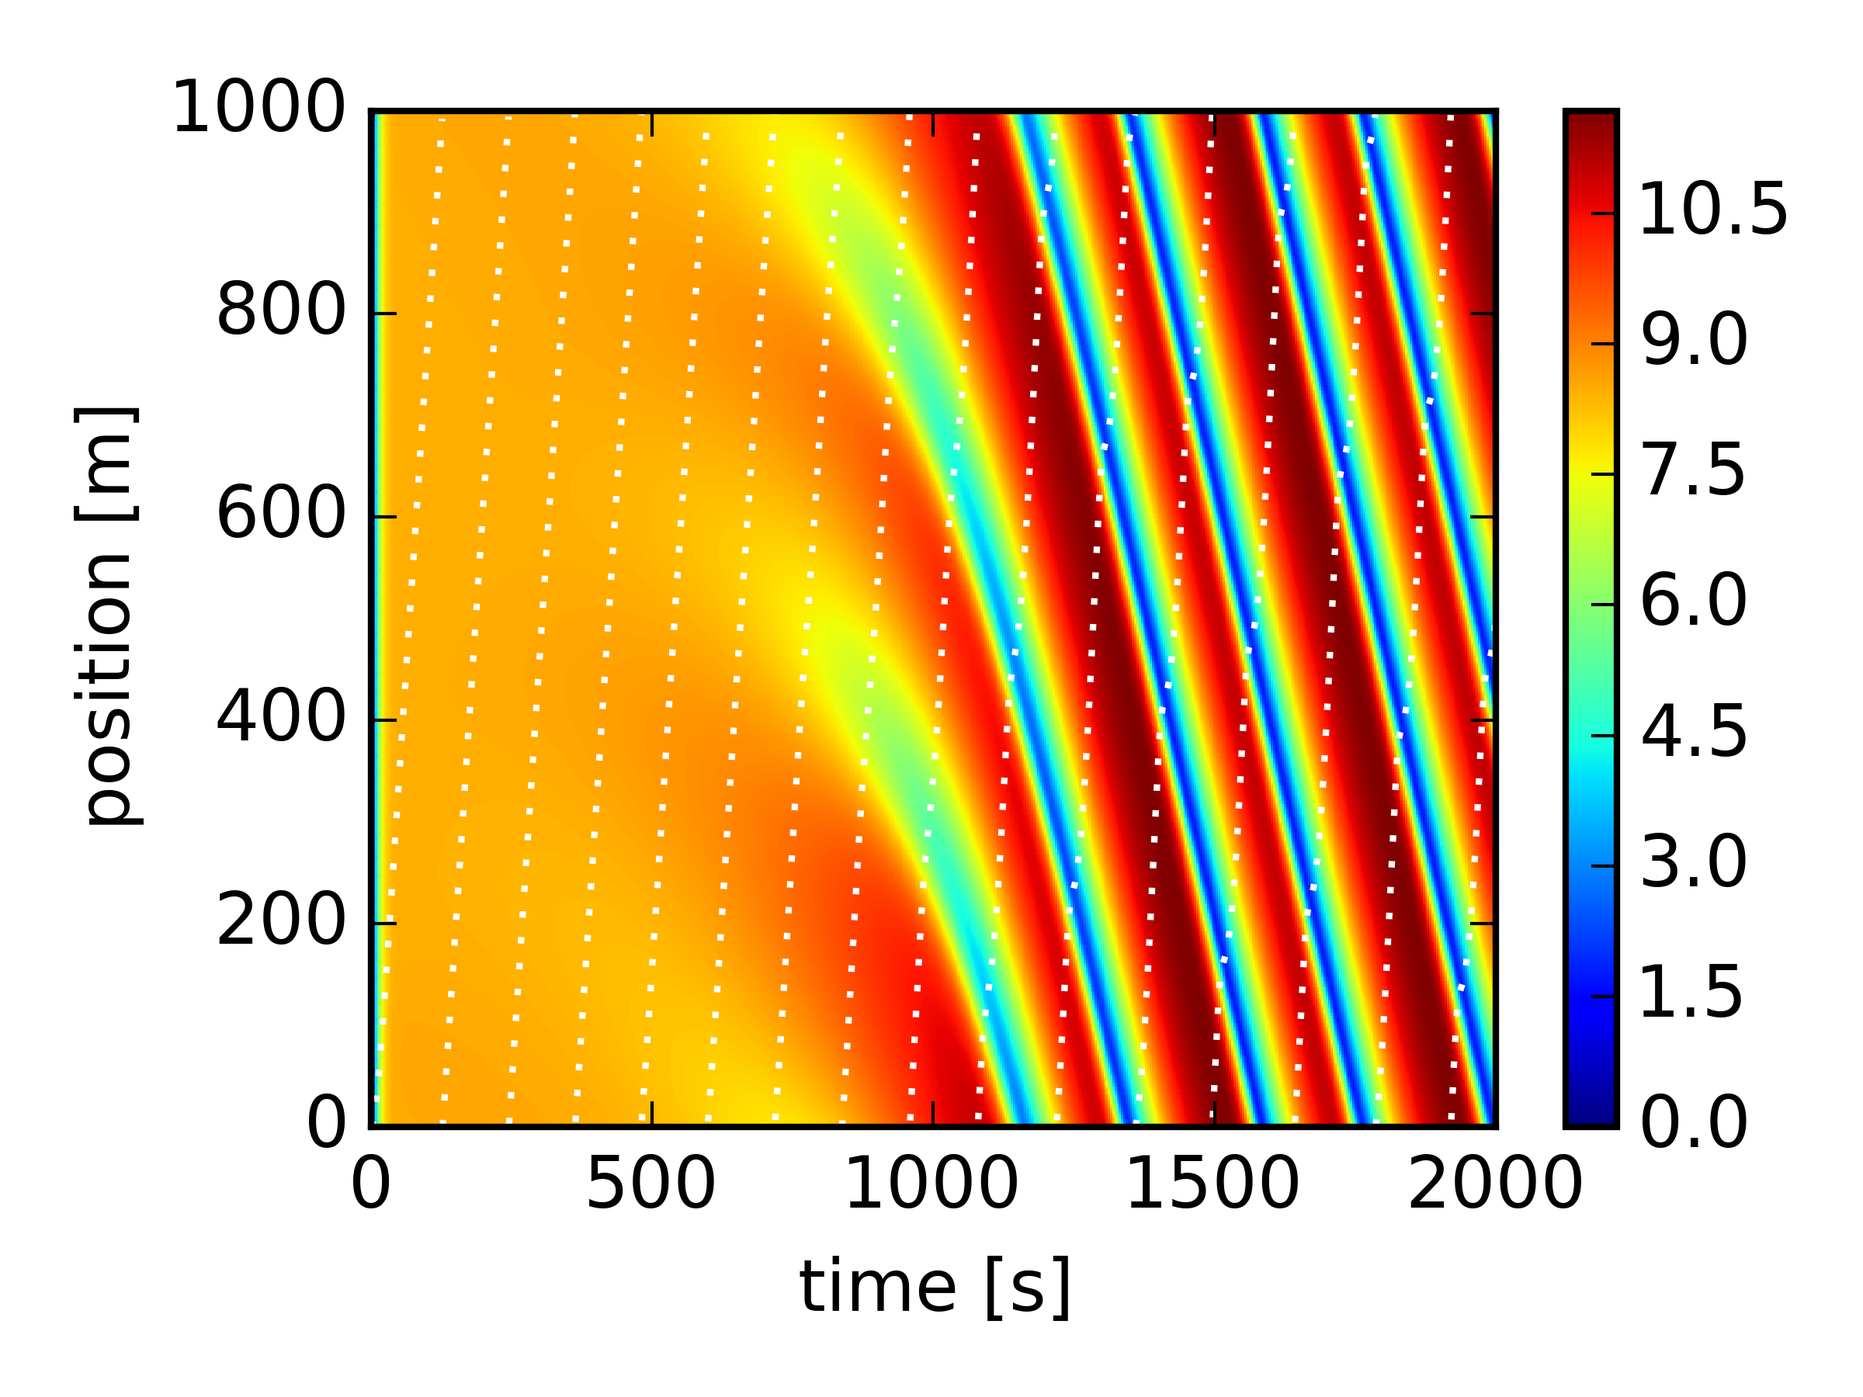
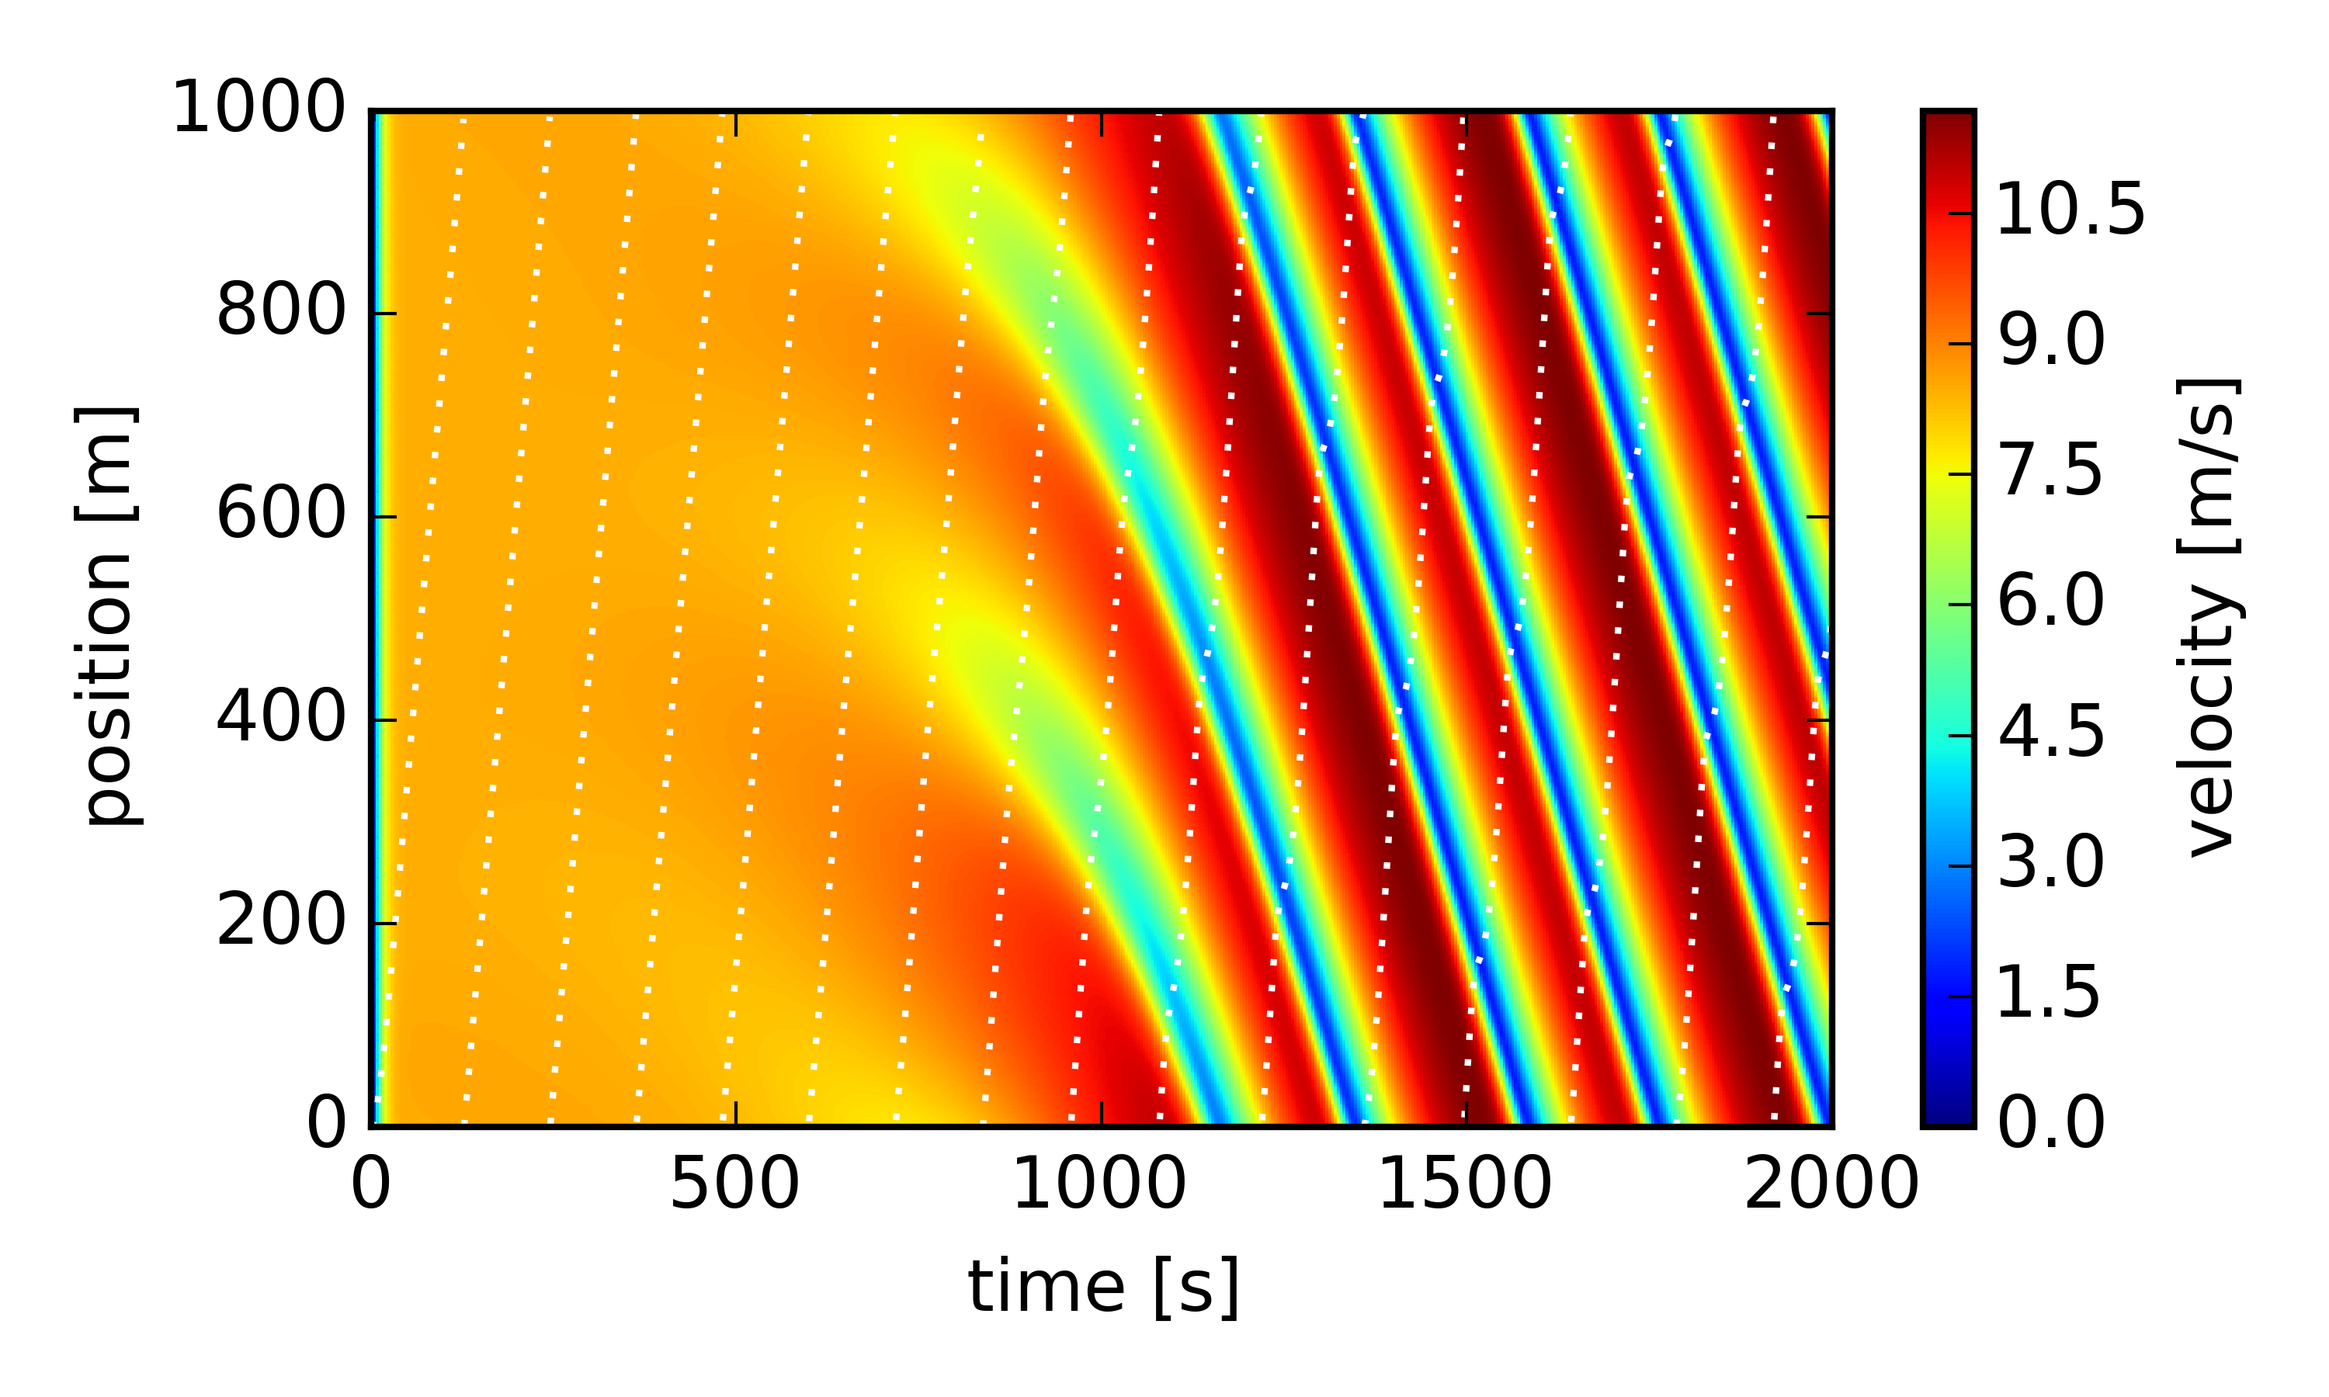
Worked on section 'results' in report

diff --git a/doc/latex/model.tex b/doc/latex/model.tex
@@ -15,7 +15,8 @@ This equation contains two parts, the \emph{free road term}, and the \emph{inter
 \end{equation}
 For any $\delta>0$ this will result a relaxation of the velocity $v_\alpha$ to the speed limit $v_0$. The value of the exponent $\delta$ is typically chosen in between 1 (exponential relaxation) and 6 (the limit $\delta\rightarrow \infty$ corresponds to a constant acceleration). Here $a$ denotes the maximum acceleration. Throughout literature the most commonly used value for the exponent is $\delta=4$. This is the value that has also been adopted in this work.
 
-The \emph{interaction term} is designed to limit the cars' velocity on a densely populated road. It acts as a `repulsive potential', which tries to enforce the \emph{desired gap} $s^*$ as the distance between two cars. The desired gap is calculated as
+\subsection{The interaction term}
+The \emph{interaction term} merits further attention. It is designed to limit the cars' velocity on a densely populated road. It acts as a `repulsive potential', which tries to enforce the \emph{desired gap} $s^*$ as the distance between two cars. The desired gap is calculated as
 \begin{equation}
 s^*(v_\alpha, \Delta v_\alpha) = s_0 + \max\left(v_\alpha T + \frac{v_\alpha \Delta v_\alpha}{2\sqrt{ab}},\;0\right).
 \label{eq:desired_gap}
@@ -26,25 +27,22 @@ It contains
     \item a safety distance $v_\alpha T$ based on the drivers' desired time headway\footnote{The time headway $T$ is the time between the moment the first vehicle's bumper passes a stationary point, and the moment the next vehicle passes it.} $T$,
     \item a breaking term $\frac{v_\alpha \Delta v_\alpha}{2\sqrt{ab}}$, with the `comfortable' deceleration $b$.
 \end{itemize}
-The breaking term inhibits large closing speeds between vehicles. It has been designed in such a way that for $\gamma = 2$, the deceleration does not exceed $b$ except in emergency situations (for more information on the asymtpotic behaviour of this term, see \cite{treiber2000}). In the present work, particular focus has been paid precisely to  $\gamma \ne 2$. We will try to answer the question to what extend this parameter affects the stability of the flow.
+The breaking term inhibits large closing speeds between vehicles. Indeed, for the traditional value $\gamma=2$, and large closing speeds, the interaction term essentially reduces to 
+\begin{equation}
+    -a \left(\frac{v \Delta v}{2 \sqrt{a b}s}\right)^2 = -\frac{b_k^2}{b},
+\end{equation}
+where $b_k$ denotes the \emph{kinematic deceleration}, i.e. the deceleration necessary to avoid a collision. Since drivers thus underestimate situations where $b_k\ll b$, while they break harder than necessary for $b_k\gg b$, it is easy to see that the resulting acceleration will tend towards $\dot v = -b$. \cite{treiber2000}
 
-Indeed, while for $\gamma=2$, the interaction term in eq. (\ref{eq:IDM}) represents a Coulomb like force field, for $\gamma>2$, the repulsive walls of the potential will become steeper. In the following we will demonstrate that this increase of $\gamma$, while leaving the other parameters fixed, will suppress any instabilities in the traffic flow.
+In the present work, particular focus has been paid precisely to  $\gamma \ne 2$. We will try to answer the question to what extend this parameter affects the stability of the flow. In the following we will demonstrate that this increase of $\gamma$, while leaving the other parameters fixed, will suppress any instabilities in the traffic flow.
 
 \subsection{Boundary conditions}
-As for the boundary conditions, there are two obvious choices: either add and remove vehicles during the simulation run (as is done e.g. in \cite{treiber1999}, or make the road periodic, i.e. ring like \cite{treiber2015}. It is this second variant that has been implemented for this project. It makes the model significantly simpler, as apart from a transient time at the beginning of the simulation, no border effects appear. On the other hand, it provides limited ability to change the amount of cars on the road at run-time. In \cite{treiber1999, treiber2006} for instance, the instability is triggered by a short increase of the influx.
+As for the boundary conditions of the road, there are two obvious choices: either add and remove vehicles during the simulation run (as is done e.g. in \cite{treiber1999}), or make the road periodic, i.e. ring-like \cite{treiber2015}. It is this second variant that has been implemented for this project. It makes the implementation significantly simpler, as no care has to be taken to spawn the vehicles at the right position with an appropriate speed. On the other hand, it provides limited ability to change the amount of cars on the road at run-time.
 
-On behalf of periodic boundary conditions, it is worth noting that some experimental data exists on precisely such a situation, namely cars driving in a queue on a circular track  \cite{nakayama2009,tadaki2013}. Here a spontaneously emerging instability was observed; we will see that our model can qualitatively reproduce these observations.
+On the subject of periodic boundary conditions, it is worth noting that some experimental data exists on precisely such a situation, namely cars driving on a circular track \cite{nakayama2009,tadaki2013}. Here a spontaneously emerging instability has been observed; we will see that our model can qualitatively reproduce these observations.
 
 
 \subsection{Limits of the model}
-The differential equations (\ref{eq:IDM}) are integrated via the following Runge-Kutta scheme:
-\begin{align*}
-v_\alpha(t+\Delta t) &= \dot v_\alpha(t)\Delta t+v_\alpha(t) \\
-x_\alpha(t+\Delta t) &= \frac{1}{2}\dot v_\alpha(t) (\Delta t)^2 + v_\alpha(t)\Delta t + x_\alpha(t)
-\end{align*}
-For the case where $\dot v_\alpha$ does only depend on $x_\alpha$, but not on $v_\alpha$, this scheme is known as the Verlet method, and converges with quadratic order. In the present case, these requirements are not met, so second order convergence might not actually be achieved. No tests on this have been carried out, as even first order methods have been proven to be accurate enough \cite{treiber2015}.
-
-Note that the IDM does not model the finite reaction time of an actual human driver\footnote{The finite time step $\Delta t$ is \emph{not} to be mistaken for a reaction time. Refer to \cite{treiber2006} for an extensive explanation of the differences.}. Indeed, when a realistic reaction time is included, IDM-like simulations show very poor stability when compared to empiric human driving . This led to the conclusion that in reality drivers do look ahead further than only the nearest neighbour \cite{treiber2006}.
+The IDM does not model the finite reaction time of an actual human driver\footnote{The finite time step $\Delta t$ is \emph{not} to be mistaken for a reaction time. Refer to \cite{treiber2006} for an extensive explanation of the differences.}. Indeed, when a realistic reaction time was included, IDM-like simulations show very poor stability when compared to empiric human driving. This suggests that in reality drivers do look ahead further than only the nearest neighbour \cite{treiber2006}.
 
 The road on which the vehicles travel is assumed to be single lane (no overtaking) and straight (constant speed limit). All drivers and vehicles are assumed to be identical.
 
@@ -66,7 +64,7 @@ In table \ref{tab:param} the reader may find an overview of all the parameters i
             car size $l_\alpha$ & \SI{5}{m} \\
             number of cars $N$ & 50\\
             length of road $L$ & \SI{1}{km} \\
-            time step $\Delta t$ & \SI{0.25}{s} \\
+            time step $\Delta t$ & \SI{0.250}{s} \\
             end time (duration of simulation) $t_\mathrm{end}$ &  \SI{30000}{s}\\
             \bottomrule
         \end{tabular}

diff --git a/doc/latex/results.tex b/doc/latex/results.tex
@@ -1,0 +1,36 @@
+\section{Simulation Results and Discussion}
+\subsection{Stop-and-go waves on a free road}
+Our implementation successfully reproduces an unstable traffic and apparition of a jam on an unobstructed road. See figure \ref{fig:free_road} for a representation of the flow. The vehicles start from stand-still, and reach equilibrium velocity within less than a minute. At about $t=\SI{700}{s}$ two seemingly independent perturbations start to grow in intensity, and develop into full blown stop-and-go waves at $t\approx \SI{1100}☺{s}$.
+
+In the IDM, drivers only look at the vehicle \emph{ahead} of them, i.e. information only spreads upstream. Indeed, we observe that the waves travel in direction opposite to the traffic, which means that the information is spread significantly faster than the speed at which the cars are travelling downstream.
+
+We have verified that the waves visible in fig. \ref{fig:free_road} are \emph{not} a numerical artefact, as the same pattern can be observed for very different time steps. In particular, we could reproduce this plot with a time step as small as \SI{1e-4}{s}.
+
+The pattern shown in the simulation is qualitatively very similar to what has recently been experimentally observed by Nakayama et al. \cite{nakayama2009} and Tadaki et al. \cite{tadaki2013}.
+\begin{figure}
+    \centering
+    \includegraphics[width=5in]{../img/free_road.png}
+    \caption{Spatio-temporal plot of the velocity field with stop-and-go waves. The dotted lines trace the trajectory of a selected car. The $N=50$ vehicles start uniformly distributed along the road. They quickly reach the equilibrium velocity (\SI{\sim 9}{m/s}). After about $t\approx\SI{700}{s}$ the instabilities start to become noticeable, and continue growing until $t\approx \SI{1100}{s}$. Note that the road is assumed to be periodic, hence the stop-and-go-waves, which leave the plot at the bottom, reappear at the top. Also note that the waves travel upstream, i.e. against the flow. For this simulation a time step $\Delta t=\SI{0.125}{s}$ was used.}
+    \label{fig:free_road}
+\end{figure}
+
+
+\subsection{Effects of the interaction exponent $\gamma$}
+We find that by increasing the exponent $\gamma$, the instabilities vanish. All the vehicles' velocity and spacing remain equalized to their equilibrium value. The transition from flow prone to instability and homogeneous traffic as a function of $\gamma$ is very sharp. Figure \ref{fig:order_param} shows this relation. To obtain this plot, for each value of $\gamma$, the simulation was run for a long time ($t_\mathrm{end} = \SI{500}{min}$), and then standard deviation of the final velocity distribution was computed as measure for inhomogeneity. As the standard deviation of the velocities vanishes in the homogeneous (disordered) phase, and quickly rises in the inhomogeneous (ordered) phase, it qualifies as an order parameter.
+
+The critical value $\gamma_c$ at which the transition occurs is well defined and seems at most weakly dependent on the length of the road.
+\begin{figure}
+    \centering
+    \includegraphics[width=4in]{../img/order_parameter.pdf}
+    \caption{Plot of the standard deviation of the velocities of the vehicles at the end of the simulation as a function of the exponent $\gamma$. If the traffic remains stable, the velocities are equalized, and hence the variance vanishes. Increasing $\gamma$ beyond a critical value (here $\gamma_c \approx 0.298$) suppresses any instability. The transition appears as a sharp kink in the curve. For this plot, the vehicle density was fixed to $N/L=\SI{50}{km^{-1}}$.}
+    \label{fig:order_param}
+\end{figure}
+
+Having established that tuning $\gamma$ gives rise to a sharp transition between phases, it stands to reason to map out this phase boundary as a function of another important parameter. Of particular interest is the density of vehicles, which has also been shown to be responsible for such a phase transition. The result can be seen in figure \ref{fig:phase_diagram}. For this the vehicle density was swept, while the corresponding critical exponent $\gamma_c$ was then determined via binary search.
+\begin{figure}
+    \centering
+    \includegraphics[width=4in]{../img/phase_diagram.pdf}
+    \caption{Stability phase diagram with the mean vehicle density on the horizontal axis, and the interaction exponent on the vertical axis. While for the traditional value of $\gamma=2$ the traffic is unstable for a broad range of densities, a higher value of $\gamma$ can render the flow stable at high densities. For the chosen acceleration and deceleration parameters (here $a=\SI{0.6}{m/s^2}$ and $b=\SI{1.5}{m/s^2}$) the flow can be made stable unconditional on the vehicle density.}
+    \label{fig:phase_diagram}
+\end{figure}
+\clearpage

diff --git a/doc/latex/report.tex b/doc/latex/report.tex
@@ -40,30 +40,15 @@ For performance reasons, the simulation engine has been implemented as a \textsc
 
 This back-end is controlled by a suite of tools written in \textsc{Python}, which also perform data analysis and visualization. The \textsc{Python} front-end feeds parameters to the engine, and processes its output.
 
-\begin{figure}
-    \centering
-    \includegraphics[width=4in]{../img/free_road.png}
-    \caption{Spatio-temporal plot of the velocity field. The scale of the colorbar is in m/s. The dotted lines trace the trajectory of a selected car. The $N=50$ vehicles start uniformly distributed along the road. They quickly reach the equilibrium velocity (\SI{\sim 9}{m/s}). After about $t\approx\SI{700}{s}$ the instabilities start to become noticeable, and continue growing until $t\approx \SI{1100}{s}$. Note that the road is assumed to be periodic, hence the stop-and-go-waves, which leave the plot at the bottom, reappear at the top. Also note that the waves travel upstream, i.e. against the flow. For this simulation a time step $\Delta t=\SI{0.125}{s}$ was used.}
-    \label{fig:free_road}
-\end{figure}
-
-\begin{figure}
-    \centering
-    \includegraphics[width=4in]{../img/order_parameter.pdf}
-    \caption{Plot of the standard deviation of the velocities of the vehicles at the end of the simulation as a function of the exponent $\gamma$. If the traffic remains stable, the velocities are equalized, and hence the variance vanishes. Increasing $\gamma$ beyond a critical value (here $\gamma_c \approx 0.298$) suppresses any instability.}
-    \label{fig:order_param}
-\end{figure}
-
-\begin{figure}
-    \centering
-    \includegraphics[width=4in]{../img/phase_diagram.pdf}
-    \caption{Stability phase diagram with the mean vehicle density on the horizontal axis, and the interaction exponent on the vertical axis. While for the traditional value of $\gamma=2$ the traffic is unstable for a broad range of densities, a higher value of $\gamma$ can render the flow stable at high densities. For the chosen acceleration and deceleration parameters (here $a=\SI{0.6}{m/s^2}$ and $b=\SI{1.5}{m/s^2}$) the flow is stable unconditional on the vehicle density.}
-    \label{fig:phase_diagram}
-\end{figure}
-\clearpage
+The differential equations (\ref{eq:IDM}) are integrated via the following Runge-Kutta scheme:
+\begin{align*}
+v_\alpha(t+\Delta t) &= \dot v_\alpha(t)\Delta t+v_\alpha(t) \\
+x_\alpha(t+\Delta t) &= \frac{1}{2}\dot v_\alpha(t) (\Delta t)^2 + v_\alpha(t)\Delta t + x_\alpha(t)
+\end{align*}
+For the case where $\dot v_\alpha$ does only depend on $x_\alpha$, but not on $v_\alpha$, this scheme is known as the \emph{Verlet method}, and converges with quadratic order. In the present case, these requirements are not met, so second order convergence might not actually be achieved. No tests on this have been carried out, as even first order methods have been proven to be accurate enough \cite{treiber2015}.
 
 
-\section{Simulation Results and Discussion}
+\input{results}
 
 \section{Summary and Outlook}
 

diff --git a/code/measurements/pretty_velocity_field.py b/code/measurements/pretty_velocity_field.py
@@ -33,8 +33,8 @@ SETTINGS_TEMPLATE += "ID = free_road\n"
 
 
 def make_plot():
-    matplotlib.rcParams.update({'font.size': 11})
-    plt.figure(figsize = (4,3), dpi = 200)
+    matplotlib.rcParams.update({'font.size': 10})
+    plt.figure(figsize = (5,3), dpi = 200)
     settings_file = open(SETTINGS_PATH + "/free_road.txt", "w")
     settings_file.write(SETTINGS_TEMPLATE)
     settings_file.close()
@@ -69,7 +69,8 @@ def make_plot():
     plt.xlabel("time [s]")
     plt.ylabel("position [m]")
     plt.pcolormesh(grid_t, grid_x, grid_v)
-    plt.colorbar()
+    cbar = plt.colorbar()
+    cbar.ax.set_ylabel('velocity [m/s]', rotation=90)
     ax = plt.gca()
     ax.set_ylim([0,np.max(np.max(xx))])
     
